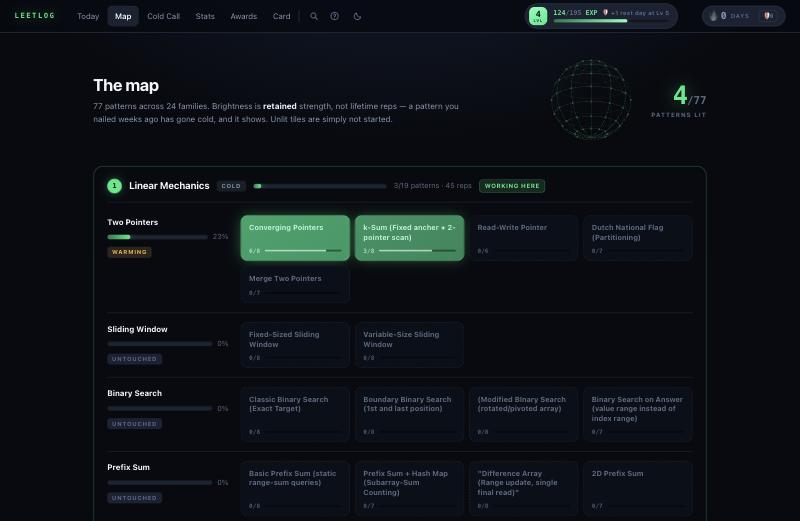
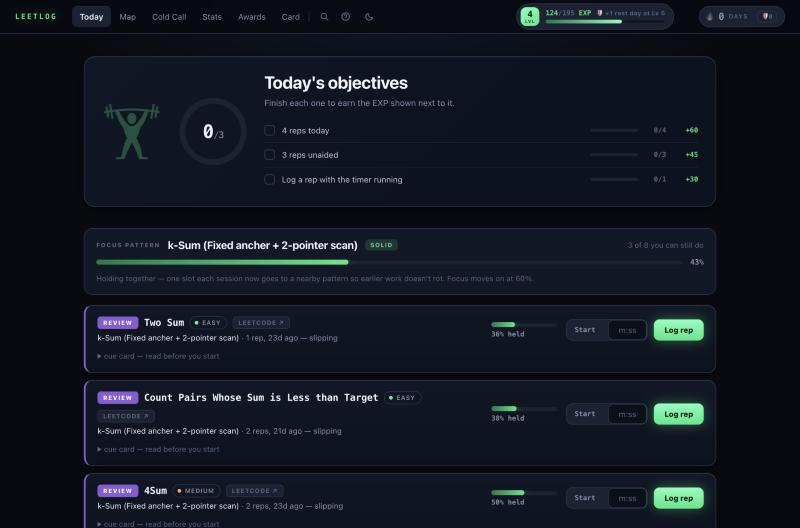
Replace TR4CEB4CK with Leetlog, and screenshot the session view
Leetlog supersedes it — same problem, and the two sitting next to each other
read as one idea told twice.

The screenshot moves from the map to Today, which is the thing the app actually
does: the focus pattern with its reason, the queue beneath it, and each problem
carrying how much is still held and how long since the last rep. The map showed
the taxonomy but not why any of it matters.

Assets are left alone deliberately — assets/tr4ceback.png is the profile photo,
not a project image.

diff --git a/index.html b/index.html
@@ -48,7 +48,6 @@
                 <div class="side-nav-sub-item"><a href="#project-sprintrivals">Sprint Rivals</a></div>
                 <div class="side-nav-sub-item"><a href="#project-leetlog">Leetlog</a></div>
                 <div class="side-nav-sub-item"><a href="#project-gemnight">GemNight</a></div>
-                <div class="side-nav-sub-item"><a href="#project-traceback">TR4CEB4CK</a></div>
                 <div class="side-nav-sub-item"><a href="#project-autoreflect">AutoReflect.</a></div>
                 <div class="side-nav-sub-item"><a href="#project-centrality">Centrality iOS</a></div>
                 <div class="side-nav-sub-item"><a href="#project-ilingual">iLingual.ai</a></div>
@@ -308,27 +307,6 @@
                     </div>
                 </div>
                 <div class="project-media"><img src="assets/gemnight_demo.png" alt="GemNight &mdash; Discover, the plan, and the closing screen"></div>
-            </div>
-
-            <div class="project has-media" id="project-traceback">
-                <div class="project-content">
-                    <div class="project-name">TR4CEB4CK</div>
-                    <div class="project-desc">TR4CEB4CK is a LeetCode prep platform that builds problem-solving
-                        intuition through rapid, timed practice sessions and AI feedback.</div>
-                    <div class="project-tech">
-                        <span class="tech">Python</span>
-                        <span class="tech">Flask</span>
-                        <span class="tech">JavaScript</span>
-                        <span class="tech">PostgreSQL</span>
-                        <span class="tech">Monaco Editor</span>
-                        <span class="tech">Llama (LLM)</span>
-                        <span class="tech">Railway (Deployed)</span>
-                    </div>
-                    <div class="project-links">
-                        <a href="https://tracebackdev-production.up.railway.app/" class="project-link" target="_blank" rel="noopener noreferrer">🚀 Live App</a>
-                    </div>
-                </div>
-                <div class="project-media"><img src="assets/traceback_1.png" alt="TR4CEB4CK"></div>
             </div>
 
             <div class="project has-media" id="project-autoreflect">
